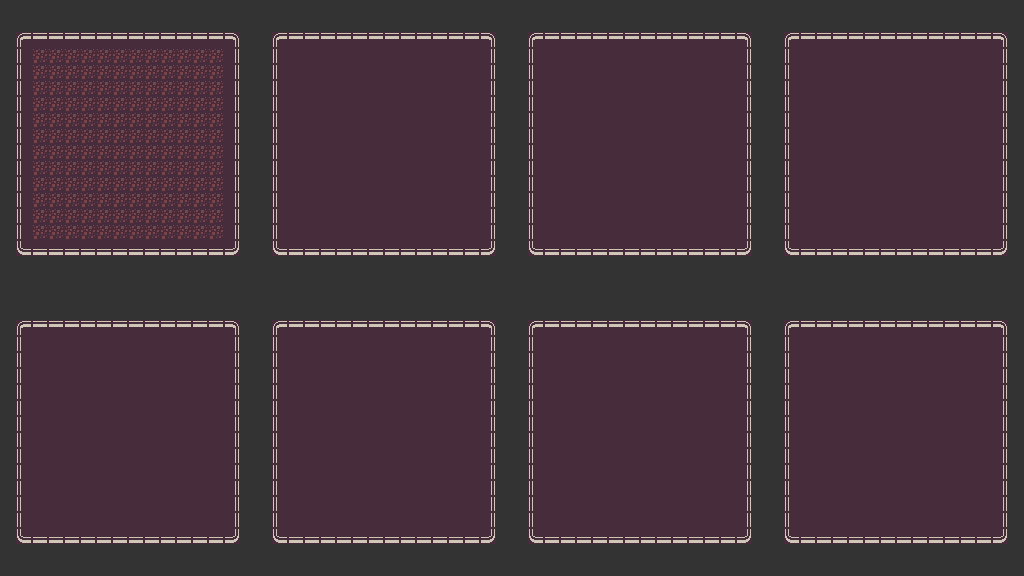
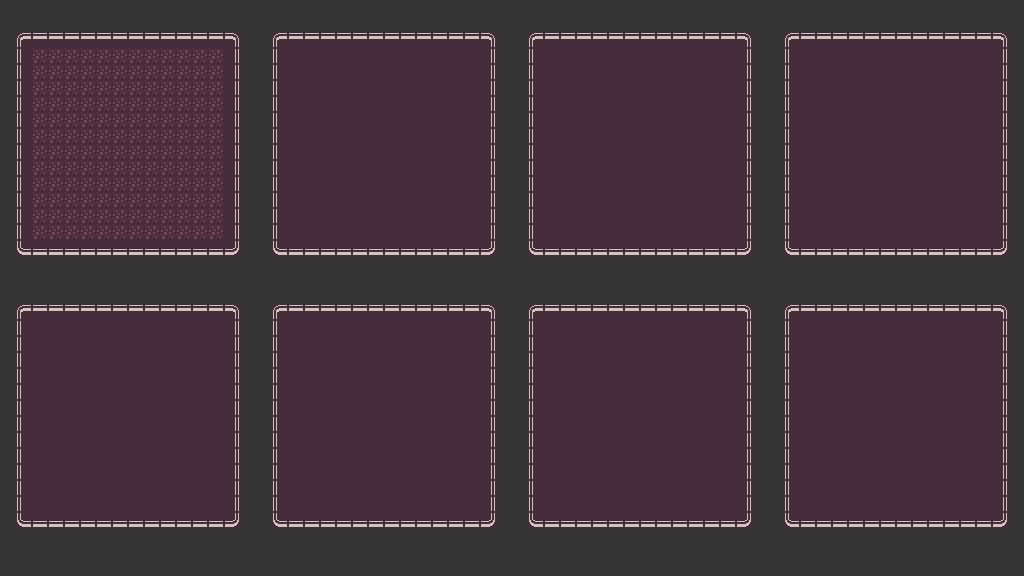
add menu

Changed region(s): [[0.0, 0.9062, 1.0, 0.9688], [0.0, 0.5312, 1.0, 0.5938]]

diff --git a/src/ui/select-menu.js b/src/ui/select-menu.js
@@ -1,0 +1,109 @@
+import { Button, imageAssets, bindKeys } from 'kontra';
+import { GRID_SIZE, GAME_HEIGHT, COLORS } from '../constants';
+import tileatlas from '../assets/tileatlas.json';
+import cursor from './cursor';
+
+const menuItems = [];
+
+function createButton(properties) {
+  properties.width = properties.height = GRID_SIZE * 2;
+  properties.scaleX = properties.scaleY = 0.75;
+
+  return Button({
+    ...properties,
+    anchor: { x: 0.5, y: 0.5 },
+    onDown() {
+      this.focus();
+    },
+    onFocus() {
+      cursor.setImage(this.name.split('_')[0]);
+      cursor.rotation = 0;
+    },
+    render() {
+      const { name, context, width, height } = this;
+      const atlas = tileatlas[name];
+      const start = -GRID_SIZE / 4;
+      const end = GRID_SIZE * 2.5;
+
+      context.fillStyle = COLORS.BLACK;
+      context.fillRect(start, start, end, end);
+
+      context.drawImage(
+        imageAssets.tilesheet,
+        atlas.col * GRID_SIZE,
+        atlas.row * GRID_SIZE,
+        width,
+        height,
+        0,
+        0,
+        width,
+        height
+      );
+      context.lineWidth = 2;
+
+      if (this.focused) {
+        context.strokeStyle = COLORS.YELLOW;
+      } else {
+        context.strokeStyle = COLORS.WHITE;
+      }
+      context.strokeRect(start, start, end, end);
+    }
+  });
+}
+
+const selectMenu = {
+  init() {
+    const beltMenu = createButton({
+      name: 'BELT_MENU',
+      x: GRID_SIZE * 1.5,
+      y: GAME_HEIGHT - GRID_SIZE * 1.5
+    });
+    beltMenu._dn.textContent = 'Belts';
+
+    const minerMenu = createButton({
+      name: 'MINER_MENU',
+      x: GRID_SIZE * 4.5,
+      y: GAME_HEIGHT - GRID_SIZE * 1.5
+    });
+    minerMenu._dn.textContent = 'Miners';
+
+    const assemblerMenu = createButton({
+      name: 'ASSEMBLER_MENU',
+      x: GRID_SIZE * 7.5,
+      y: GAME_HEIGHT - GRID_SIZE * 1.5
+    });
+    assemblerMenu._dn.textContent = 'Assemblers';
+
+    const deleteMenu = createButton({
+      name: 'DELETE_MENU',
+      x: GRID_SIZE * 10.5,
+      y: GAME_HEIGHT - GRID_SIZE * 1.5
+    });
+    deleteMenu._dn.textContent = 'Miners';
+
+    menuItems.push(beltMenu);
+    menuItems.push(minerMenu);
+    menuItems.push(assemblerMenu);
+    menuItems.push(deleteMenu);
+
+    beltMenu.focus();
+
+    bindKeys('1', () => {
+      beltMenu.focus();
+    });
+    bindKeys('2', () => {
+      minerMenu.focus();
+    });
+    bindKeys('3', () => {
+      assemblerMenu.focus();
+    });
+    // bindKeys('4', () => {
+    //   deleteMenu.focus();
+    // });
+  },
+
+  render() {
+    menuItems.forEach(item => item.render());
+  }
+};
+export default selectMenu;

diff --git a/src/index.js b/src/index.js
@@ -24,8 +24,9 @@ import componentManager from './managers/component-manager';
 import beltManager from './managers/belt-manager';
 import minerManager from './managers/miner-manager';
 import moverManager from './managers/mover-manager';
-import Cursor from './ui/cursor';
+import cursor from './ui/cursor';
 import { layers } from './assets/tilemap.json';
+import selectMenu from './ui/select-menu';
 
 const { canvas, context } = init();
 
@@ -81,8 +82,7 @@ load('tilesheet.webp', 'tilemap.webp').then(() => {
   beltManager.init();
   minerManager.init();
 
-  const cursor = new Cursor();
-  cursor.setImage('BELT');
+  selectMenu.init();
 
   // to help debug problems with belts
   let gameHistory = [];
@@ -118,7 +118,10 @@ load('tilesheet.webp', 'tilemap.webp').then(() => {
               break;
           }
         }
-      } else if (pointerPressed('left')) {
+      } else if (
+        pointerPressed('left') &&
+        cursor.y < GAME_HEIGHT - GRID_SIZE * 3
+      ) {
         const items = grid.getAll(cursor);
         const { name, x, y, row, col, rotation, dir } = cursor;
         const manager = managers[name];
@@ -150,6 +153,8 @@ load('tilesheet.webp', 'tilemap.webp').then(() => {
       componentManager.render();
       sprites.forEach(sprite => sprite.render());
       cursor.render();
+
+      selectMenu.render();
     }
   });
   loop.start();
@@ -174,21 +179,15 @@ load('tilesheet.webp', 'tilemap.webp').then(() => {
     }
   });
 
-  // for testing
-  // keys 1-3 change building
-  bindKeys('1', () => {
-    cursor.setImage('BELT');
-    cursor.rotation = 0;
-  });
-
-  bindKeys('2', () => {
-    cursor.setImage('MINER');
-    cursor.rotation = 0;
-  });
-
-  bindKeys('3', () => {
-    cursor.setImage('MOVER');
-    cursor.rotation = 0;
+  const gameRect = game.getBoundingClientRect();
+  game.addEventListener('mousemove', evt => {
+    if (evt.clientY > gameRect.y + gameRect.height - GRID_SIZE * 3) {
+      game.style.cursor = 'default';
+      cursor.hidden = true;
+    } else {
+      game.style.cursor = 'none';
+      cursor.hidden = false;
+    }
   });
 
   window.grid = grid;

diff --git a/src/ui/cursor.js b/src/ui/cursor.js
@@ -5,9 +5,11 @@ import grid, { toGrid } from '../utils/grid';
 import { rotate } from '../utils';
 import tileatlas from '../assets/tileatlas.json';
 
-export default class Cursor extends GameObject {
+class Cursor extends GameObject {
   constructor() {
-    super();
+    super({
+      context: game.getContext('2d')
+    });
 
     this.state = 'building';
     this.dir = DIRS.RIGHT;
@@ -50,6 +52,8 @@ export default class Cursor extends GameObject {
     const { context, scaleSize } = this;
     const atlas = tileatlas.CURSOR;
 
+    if (this.hidden) return;
+
     context.save();
     context.globalAlpha = 0.6;
     super.draw();
@@ -69,3 +73,6 @@ export default class Cursor extends GameObject {
     );
   }
 }
+
+const cursor = new Cursor();
+export default cursor;

diff --git a/src/constants.js b/src/constants.js
@@ -28,5 +28,12 @@ export const DIRS = {
 export const BELT = {
   SPEED: [0.75]
 };
+export const COLORS = {
+  WHITE: '#cfc6b8',
+  BLACK: '#333333',
+  RED: '#e6482e',
+  YELLOW: '#f4b41b',
+  GREEN: '#38d973'
+};
 // 200 ms (200ms / 1000 ms = 0.2)
 export const TICK_DURATION = 0.2;

diff --git a/.eslintrc.js b/.eslintrc.js
@@ -8,6 +8,9 @@ module.exports = {
     sourceType: 'module'
   },
   extends: 'eslint:recommended',
+  globals: {
+    game: 'readonly'
+  },
   rules: {
     'no-debugger': 0
   },

diff --git a/src/index.html b/src/index.html
@@ -21,6 +21,11 @@
     background: #472d3c;
     cursor: none;
   }
+
+  /* fix kontra style */
+  [data-kontra] {
+    clip: rect(0, 0, 0, 0);
+  }
   </style>
 </head>
 <body>
